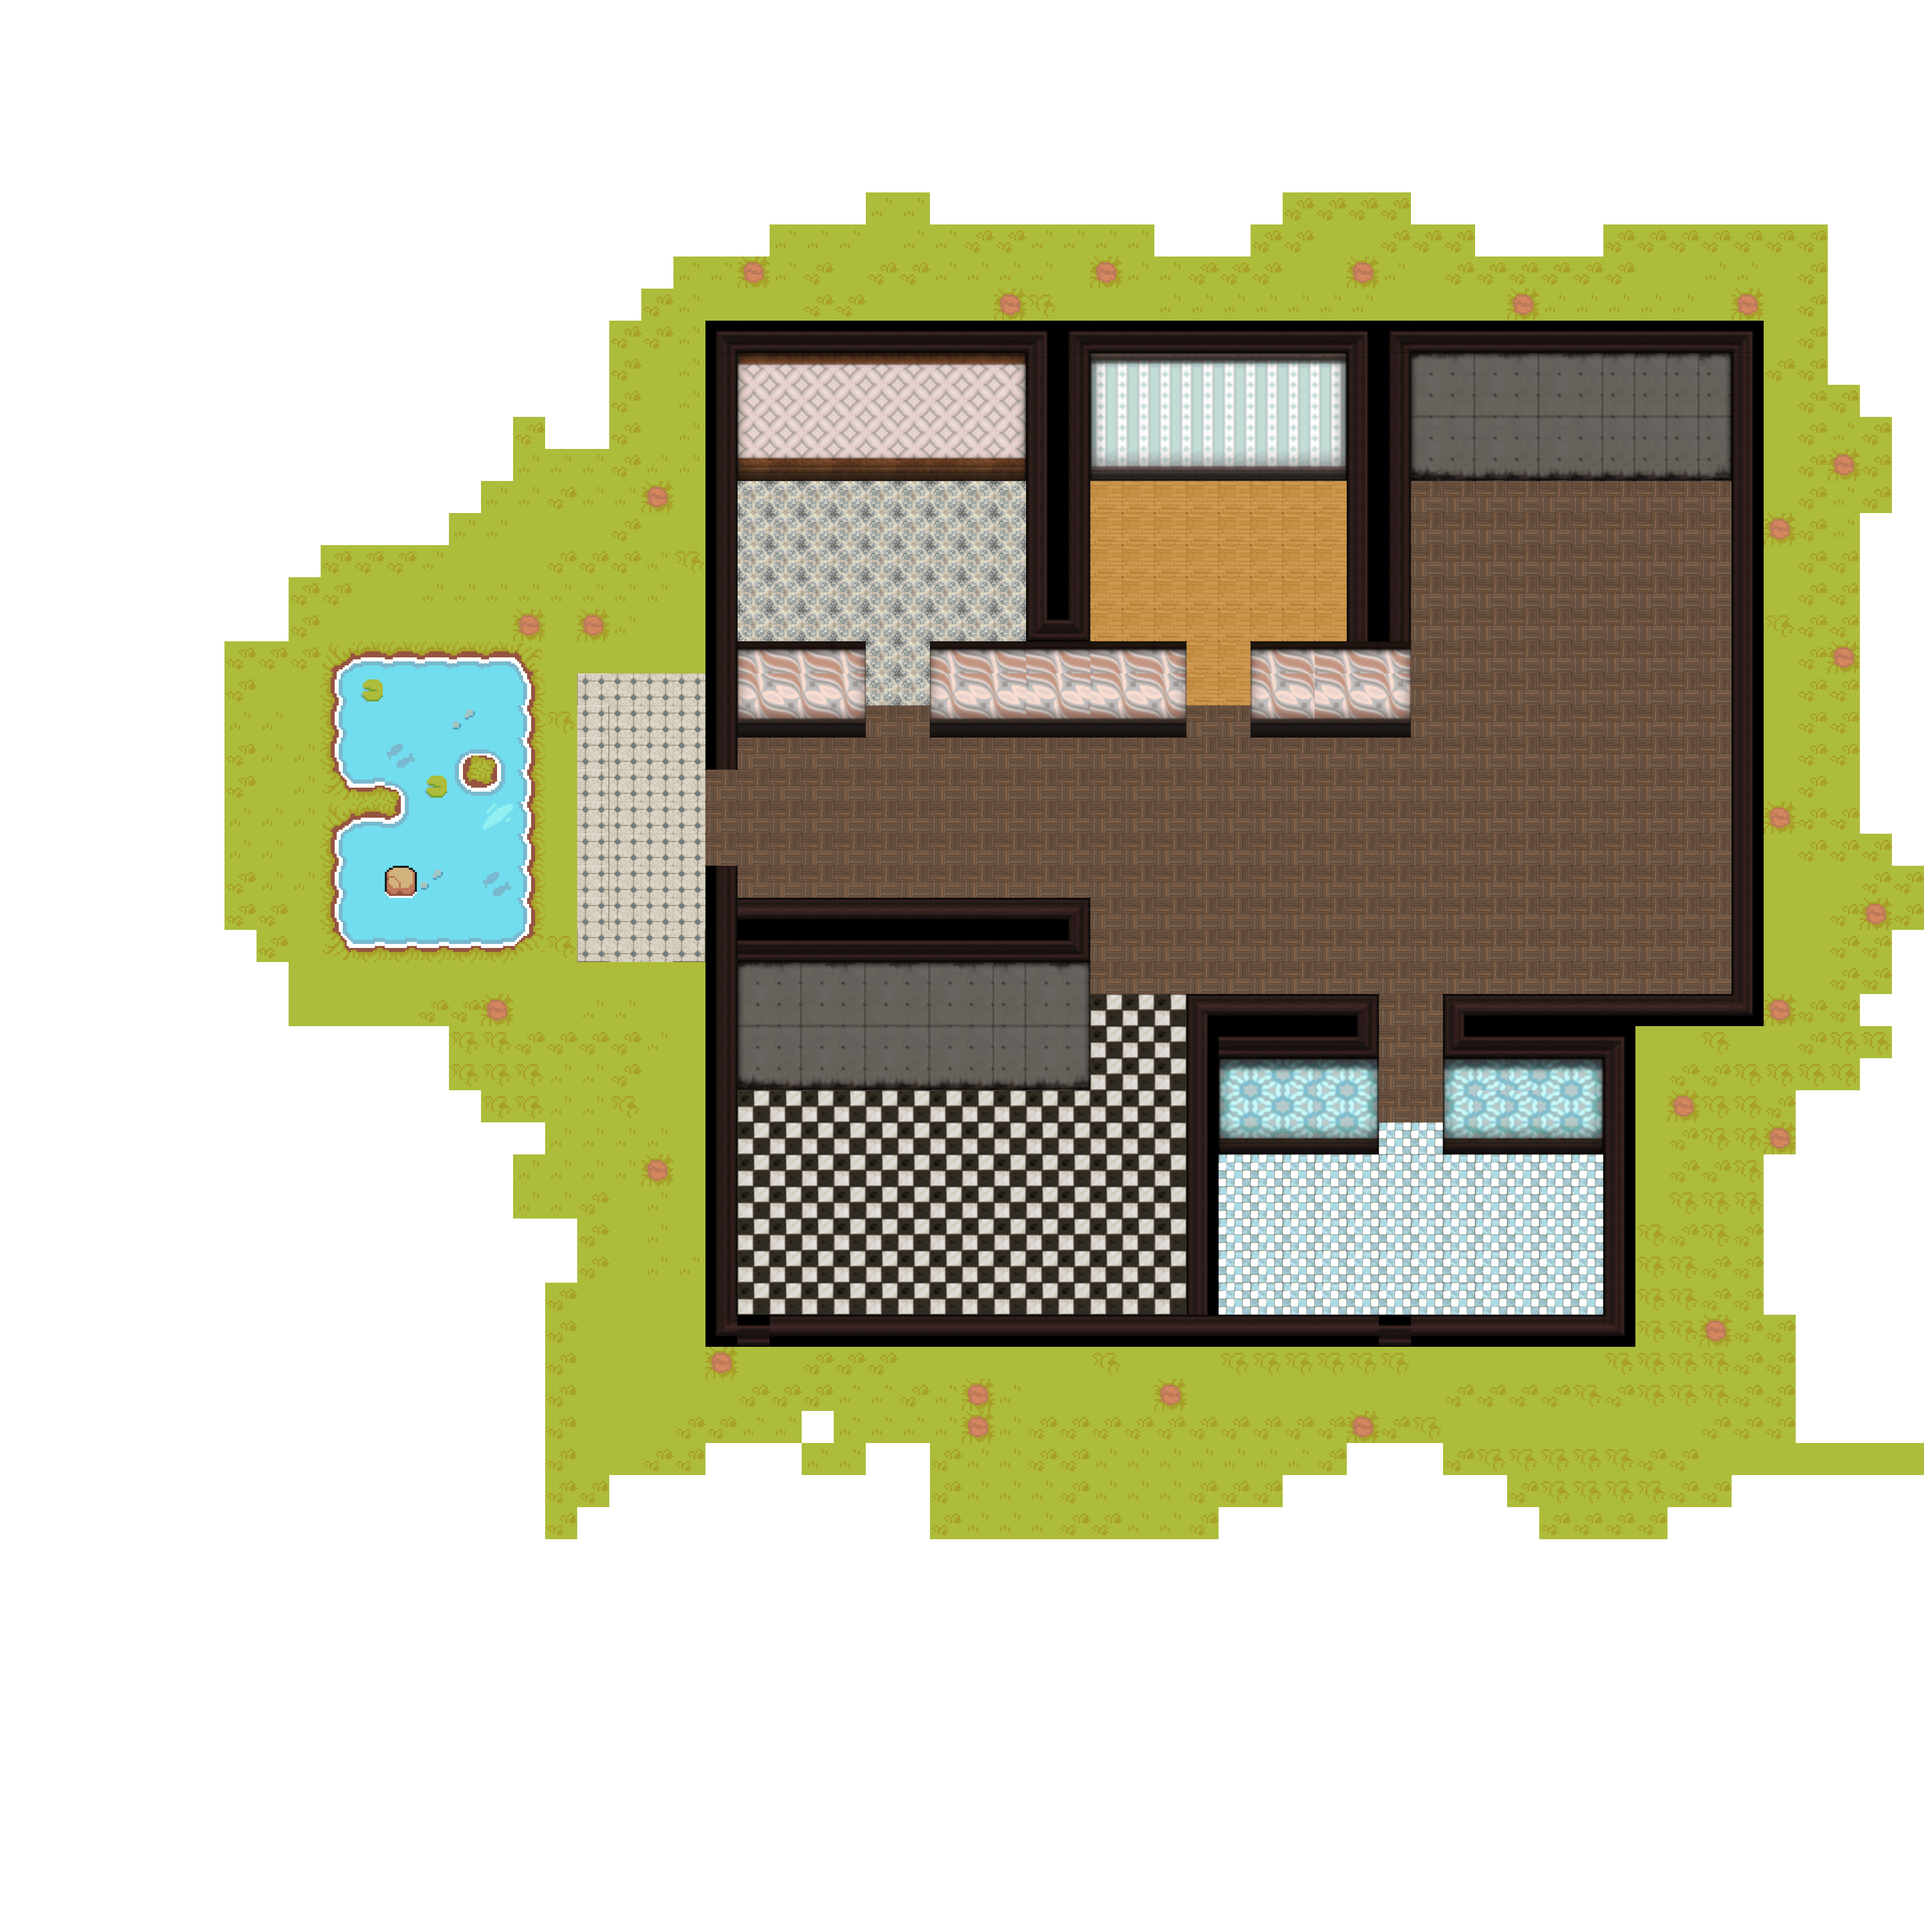
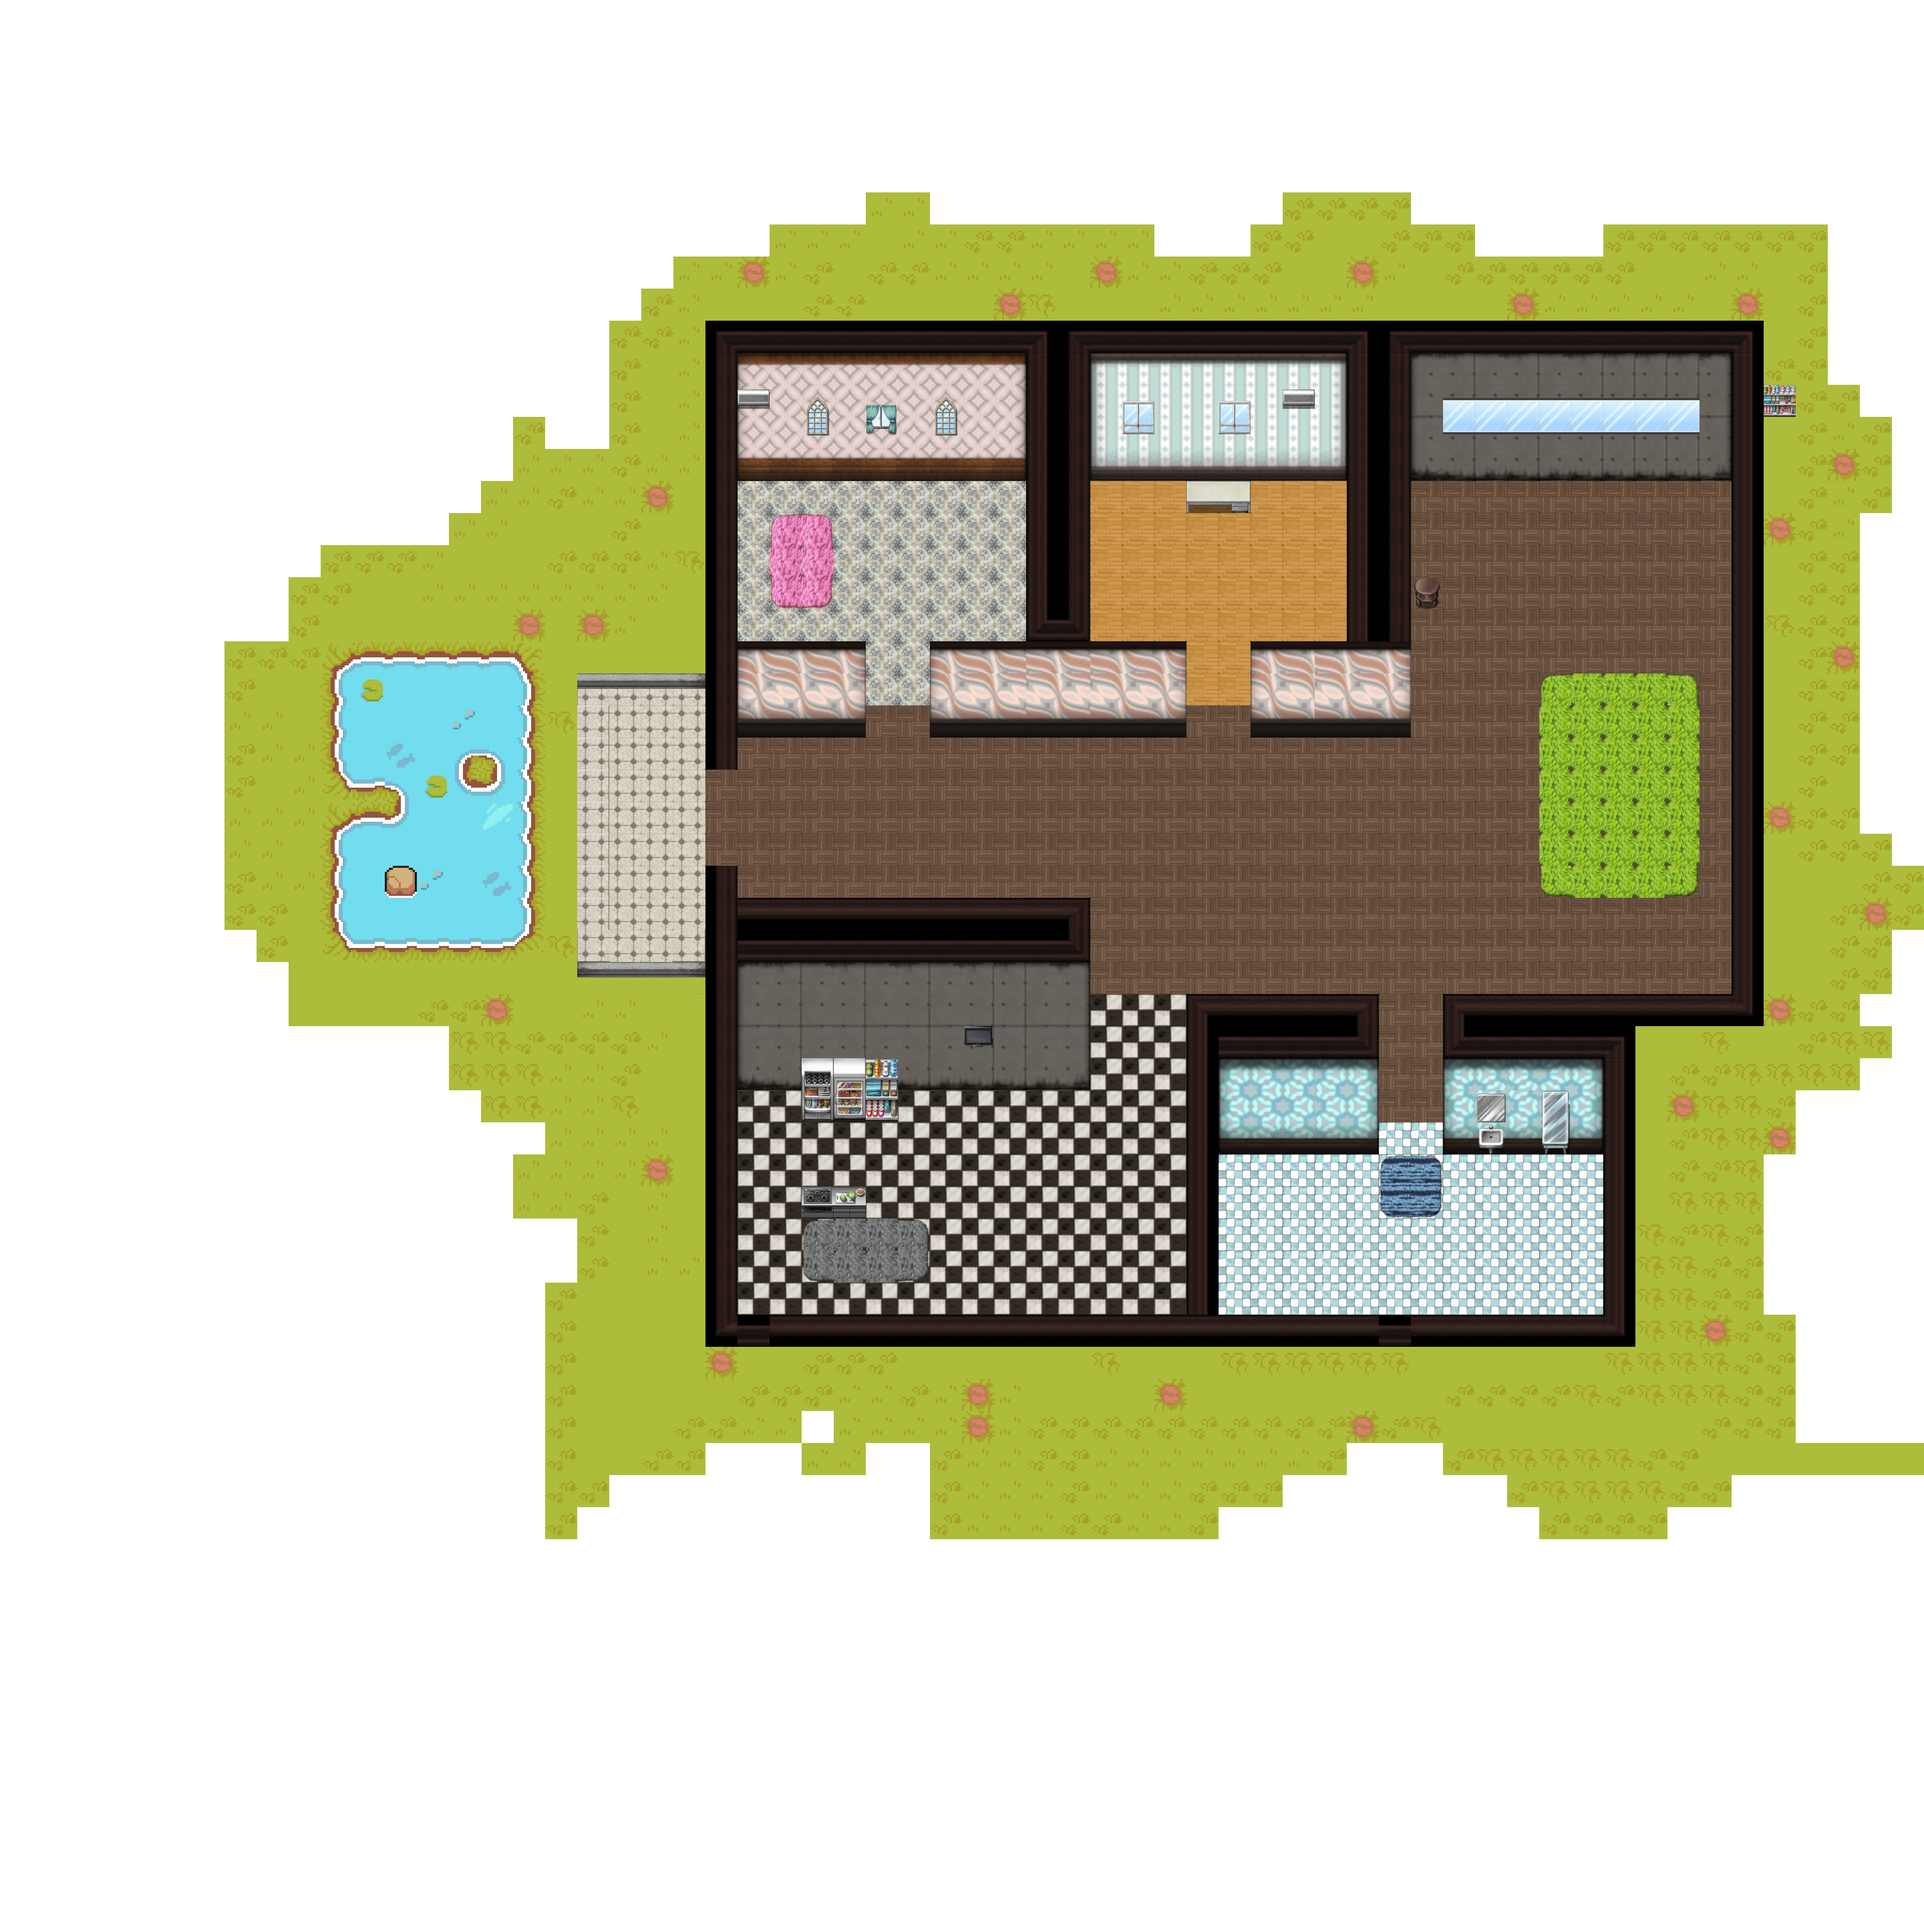
added a few activate animations for objects

diff --git a/code/level.py b/code/level.py
@@ -7,12 +7,9 @@ from support import *
 from random import choice
 from tasks import *
 import math
-# import pandas as pd
 
-# surf = graphics['objects'][int(col)]
-# Tile((x,y),[self.visible_sprites,self.obstacle_sprites],'object',surf, col)
-
-index_to_name = {1419:'chair', 1389:'trashcan'}
+index_to_name = {1419:'chair', 1389:'trashcan', 1357:'telephone', 1485:'bathtub', 1386:'sink', 1390:'books', 
+				 1391:'notes'}
 
 def create_radial_gradient(width, height, inner_color, outer_color):
     surface = pygame.Surface((width, height), pygame.SRCALPHA)
@@ -51,7 +48,7 @@ bad_tasks = {1:["You browsed through social media for 2 hours.",  "Your happines
 			  2:["You ate a lot of junk food.", "Your happiness is reduced by 10 points."],
 			    3:["You watched TV for 3 hours", "Your happiness is reduced by 15 points"]}
 happiness_reduced = {1:10, 2:10, 3:15}
-task_to_obj = {"PHONE":"phone", "BALCONY":"balcony_chair", "TRASH":"trashcan"}
+task_to_obj = {"PHONE":"telephone", "BALCONY":"chair", "TRASH":"trashcan"}
 
 class Level:
 	def __init__(self):
@@ -65,11 +62,11 @@ class Level:
 		self.obstacle_sprites = pygame.sprite.Group()
 
 		#tasks
-		self.happy = 50
+		self.happy = 80
 		self.task_list = ["Talk on phone - type PHONE", "Go to balcony - type BALCONY", "Clean out the trash - type TRASH"]
 		self.bad_task = ""
 		self.player = Player((1980,1500),[self.visible_sprites],self.obstacle_sprites)
-		self.player.speed = (self.happy/100)*15
+		self.player.speed = (self.happy/100)*10
 
 		self.brightness_wait = 0
 		self.pop_up_wait = 0
@@ -108,16 +105,13 @@ class Level:
 								# print("here")
 								surf = graphics['objects'][idx]
 								Tile((x,y),[self.visible_sprites,self.obstacle_sprites],'object',[surf])
-						else:
-							surf = graphics['objects'][idx]
-							Tile((x,y),[self.visible_sprites],'object',[surf])
 
 	def update_brightness(self):
 		width, height = self.display_surface.get_size()
 		# Colors: inner (more transparent) and outer (less transparent)
 		# Adjust alpha values based on happiness
 		alpha = happiness_to_alpha(self.happy)
-		inner_color = (0, 0, 0, alpha/2)  # Fully transparent at center
+		inner_color = (0, 0, 0, 0)  # Fully transparent at center
 		outer_color = (0, 0, 0, min(alpha*4, 255))  # Outer color's alpha based on happiness
 		
 		gradient_overlay = create_radial_gradient(width, height, inner_color, outer_color)
@@ -125,7 +119,7 @@ class Level:
 		pygame.display.flip()
 	
 	def handle_popup(self):
-		if self.pop_up_wait >= 600 and (not self.player.is_textbox_active):
+		if self.pop_up_wait >= 1200 and (not self.player.is_textbox_active):
 			bad_task_index = choice(list(bad_tasks.keys()))
 			self.bad_task = bad_tasks[bad_task_index]
 			self.pop_up_wait = 0

diff --git a/code/tasks.py b/code/tasks.py
@@ -3,7 +3,7 @@ from random import choice
 
 good_tasks = ["Talk on phone - type PHONE", "Go to balcony - type BALCONY", "Clean out the trash - type TRASH"]
 task_to_seq = {"Talk on phone - type PHONE": "PHONE", "Go to balcony - type BALCONY": "BALCONY", "Clean out the trash - type TRASH":"TRASH"}
-taskobj = {"PHONE":"phone", "BALCONY":"chair", "TRASH":"trashcan"}
+taskobj = {"PHONE":"telephone", "BALCONY":"chair", "TRASH":"trashcan"}
 
 pygame.init()
 font = pygame.font.Font(None,30)

diff --git a/code/support.py b/code/support.py
@@ -14,6 +14,7 @@ def import_folder(path):
 	surface_list = []
 
 	for _,__,img_files in walk(path):
+		img_files.sort()
 		for image in img_files:
 			# print(image)
 			full_path = path + '/' + image
